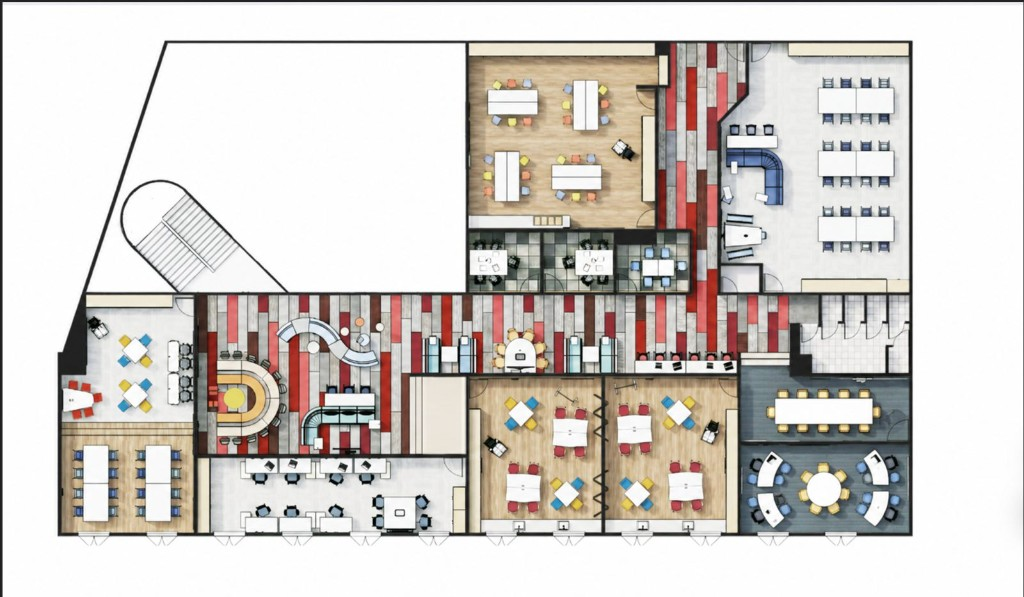
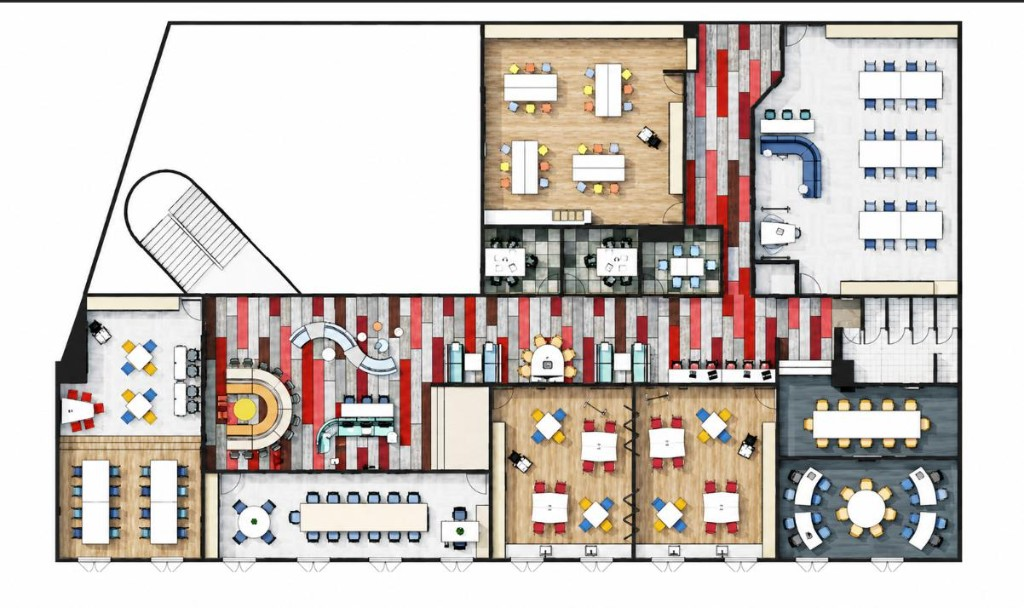
Update Prakash Nair prepa floor plan to latest layout image.

diff --git a/src/components/PrakashNairSection.tsx b/src/components/PrakashNairSection.tsx
@@ -116,7 +116,7 @@ export function PrakashNairSection() {
             src={FLOOR_PLAN_SRC}
             alt="Plano del nuevo diseño de la prepa — espacios para colaboración y aprendizaje activo"
             width={1024}
-            height={597}
+            height={608}
             className="prakash-floorplan-img"
             sizes="(max-width: 768px) 100vw, 720px"
             unoptimized